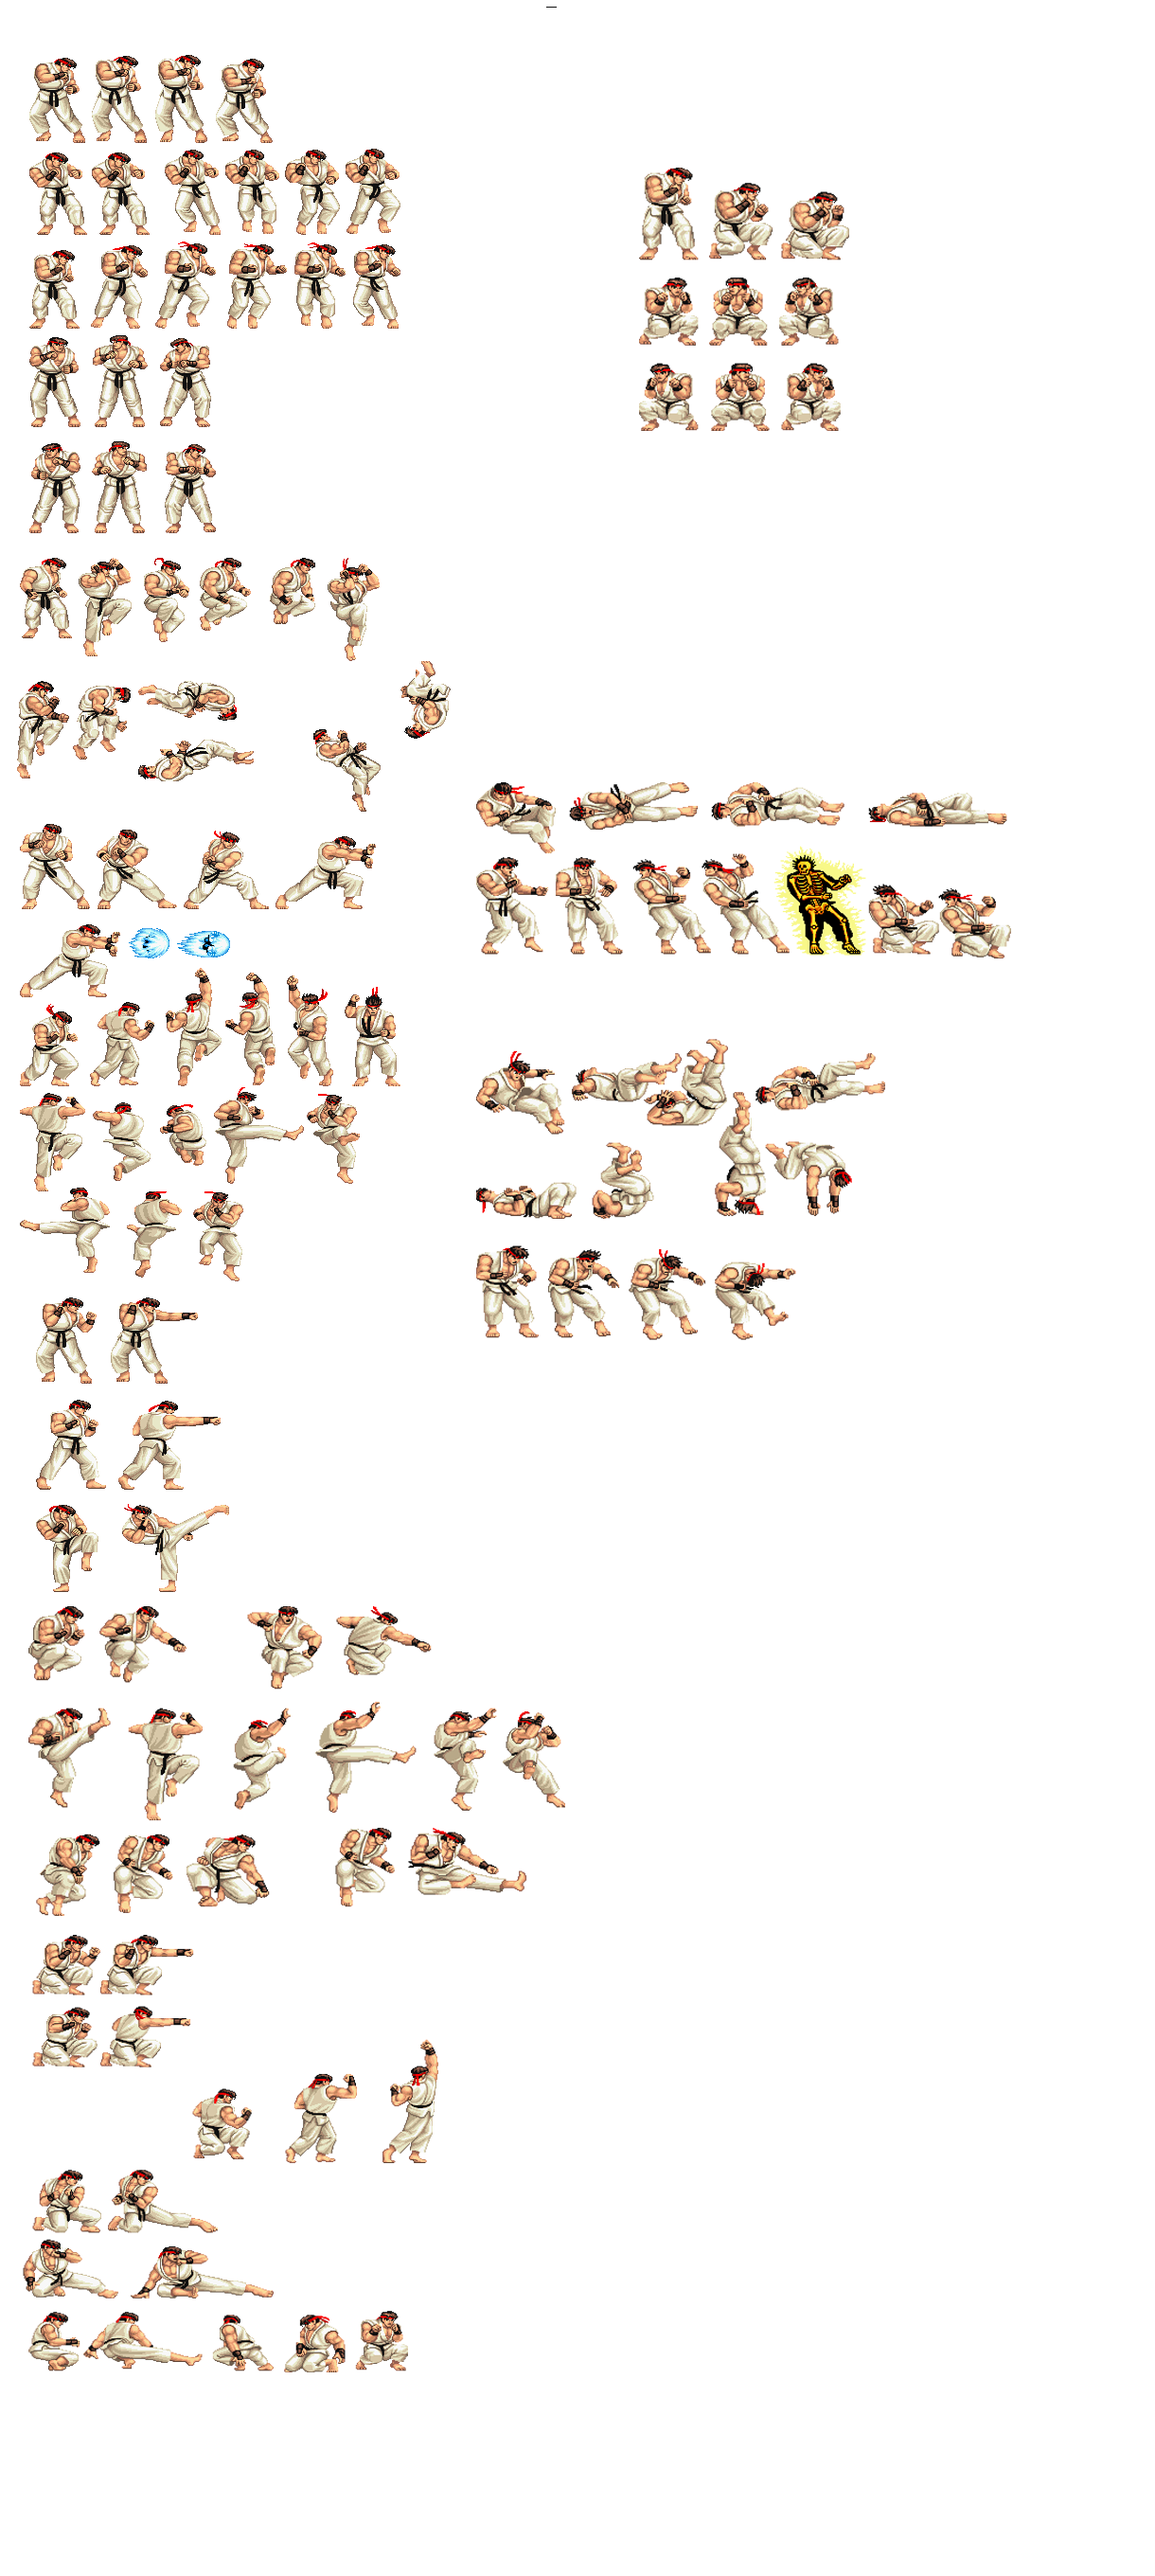
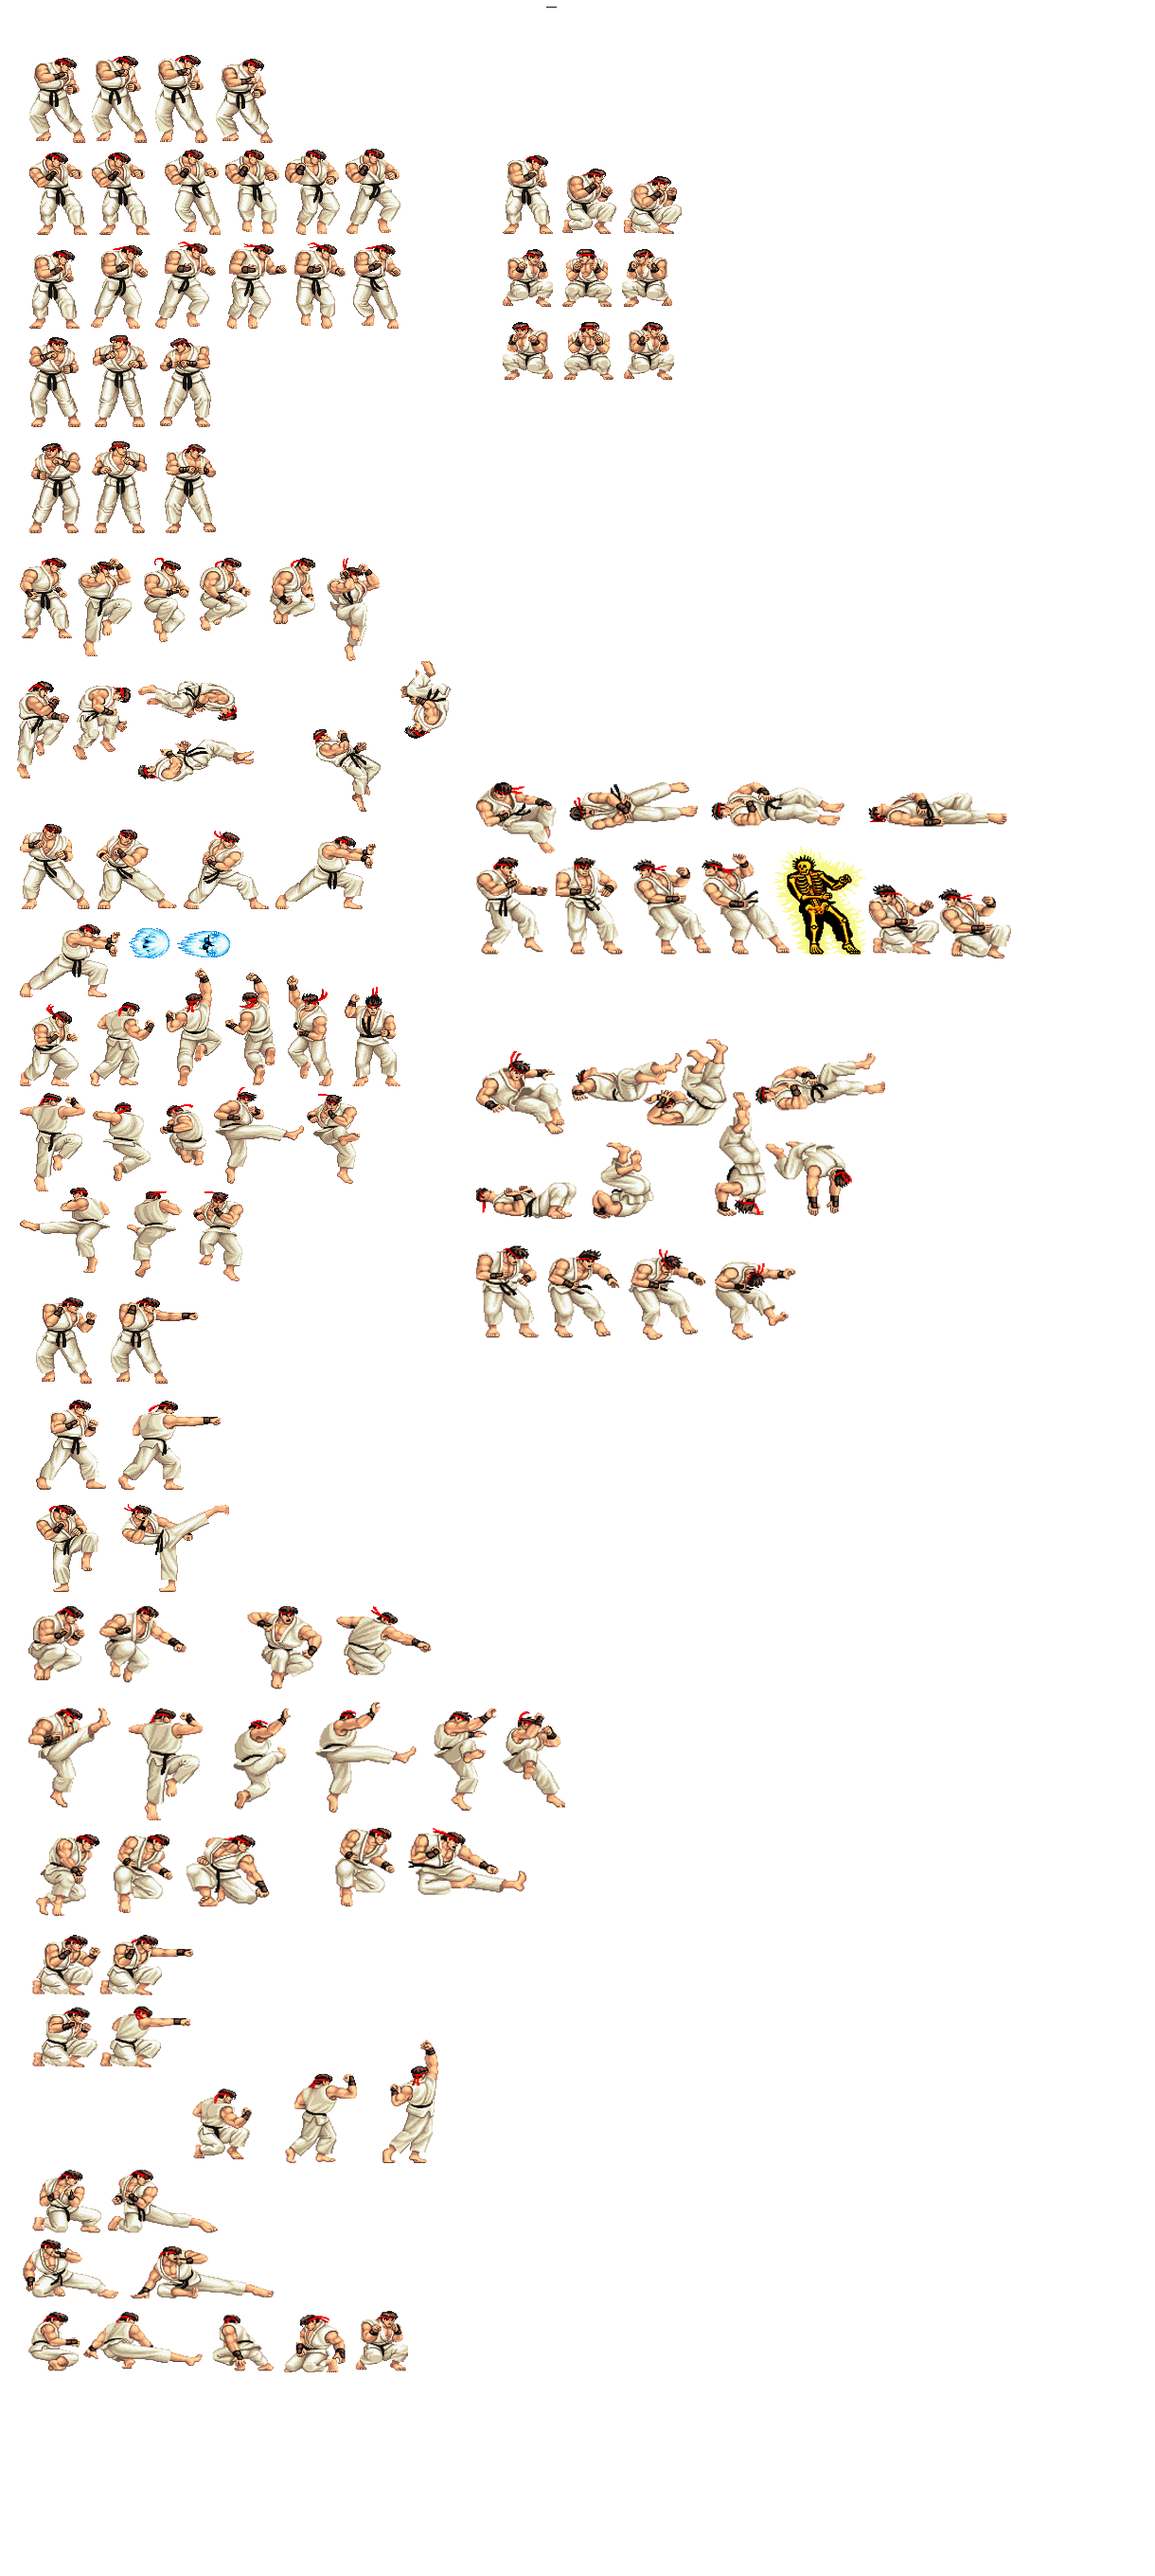
h

Changed region(s): [[0.4361, 0.0625, 0.7475, 0.1875]]

diff --git a/Projecte_Oficial/ModulePlayer.cpp b/Projecte_Oficial/ModulePlayer.cpp
@@ -39,10 +39,10 @@ ModulePlayer::ModulePlayer()
 	idle.speed = 0.15f;
 
 	//Crouch Animation
-	crouch.PushBack({ 668,171,73,108 });
-	crouch.PushBack({ 741,171,73,108 });
-	crouch.PushBack({ 820,171,73,108 });
-	crouch.speed = 0.15f;
+	crouch.PushBack({ 519,156,67,95 });
+	crouch.PushBack({ 587,156,68,95 });
+	crouch.PushBack({ 654,156,68,95 });
+	crouch.speed = 0.1f;
 	crouch.loop = false;
 
 
@@ -328,24 +328,24 @@ update_status ModulePlayer::PreUpdate() {
 		}
 		if (currentstate == jumpbackward) {
 			LOG("BACKWARDJUMP TO IDLE");
-			/*if (current_animation->Finished()) {
+			/*if (current_animation->Finished()) { // Aquest d'aqui no el poseu perque per ara trenca el jumpbackward.
 				currentstate = idlestate;
 				backwardjump.Reset();
 			}*/
 		}
 		if (currentstate == jumpforward) {
 			LOG("FORWARDJUMP TO IDLE");
-			/*if (current_animation->Finished()) {
+			/*if (current_animation->Finished()) {  // Aquest d'aqui no el poseu perque per ara trenca el jumpforward.
 				currentstate = idlestate;
 				forwardjump.Reset();
 			}*/
 		}
 		if (currentstate == punchcrouch) {
 			LOG("CROUCH TO CROUCHPUNCH");
-			/*if (current_animation->Finished()) {
+			if (current_animation->Finished()) {
 				currentstate = crouched;
 				crouchpunch.Reset();
-			}*/
+			}
 		}
 
 		if (currentstate == kickcrouch) {
